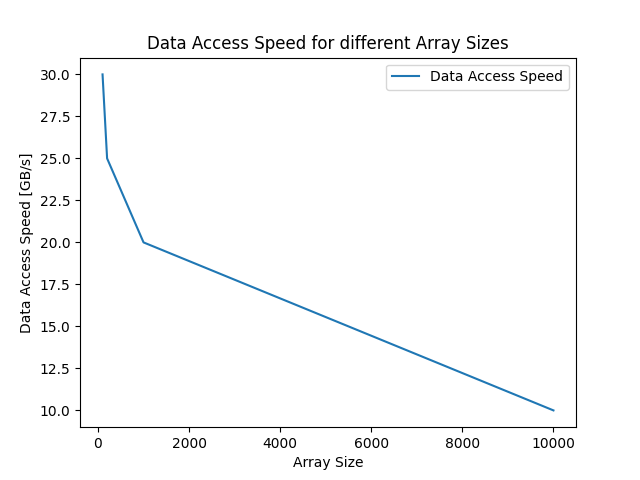
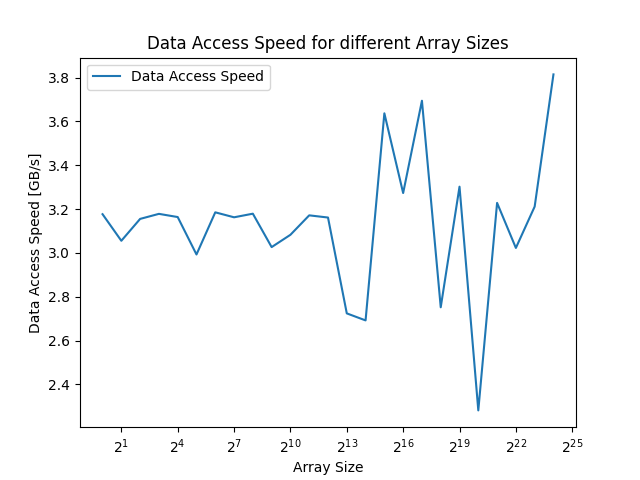
dataAccessSpeed csv

diff --git a/submissions/3_Benchmarking/dataAccessSpeed.cpp b/submissions/3_Benchmarking/dataAccessSpeed.cpp
@@ -1,0 +1,61 @@
+#include <iostream>
+#include <chrono>
+#include <cstdlib>
+#include <fstream>
+#include <algorithm>
+
+double
+testDataAccessSpeed(int i_size)
+{
+    int l_s = i_size;
+    double l_scalar = 2.0;
+
+    double *l_A = new double[l_s];
+    double *l_B = new double[l_s];
+    double *l_C = new double[l_s];
+
+    for (int i = 0; i < l_s; ++i)
+    {
+        l_A[i] = static_cast<double>(std::rand()) / RAND_MAX;
+        l_B[i] = static_cast<double>(std::rand()) / RAND_MAX;
+        l_C[i] = 0.0;
+    }
+
+    int k, i;
+
+    auto l_start_time = std::chrono::high_resolution_clock::now();
+    for (i = 0; i < std::max(l_s, 10000); ++i)
+    {
+        l_C[i % l_s] = l_A[i % l_s] + l_scalar * l_B[i % l_s];
+    }
+
+    auto l_end_time = std::chrono::high_resolution_clock::now();
+    std::chrono::duration<double> l_duration = l_end_time - l_start_time;
+
+    using namespace std::chrono_literals;
+    double l_data_access_speed = 3.0 * std::max(l_s, 10000) * sizeof(double) / (l_duration / 1.0s) / (1024 * 1024 * 1024);
+
+    delete[] l_A;
+    delete[] l_B;
+    delete[] l_C;
+
+    return l_data_access_speed;
+}
+
+int main()
+{
+    int l_size = 1;
+
+    std::ofstream dataCSV;
+    dataCSV.open("memory_bandwidth.csv");
+    dataCSV << "Array Size (bytes), Bandwidth (GB/s)" << std::endl;
+
+    for (int i = 0; i < 25; i++)
+    {
+        dataCSV << l_size << "," << testDataAccessSpeed(l_size) << std::endl;
+        l_size *= 2;
+    }
+    dataCSV.close();
+
+    return 0;
+}

diff --git a/submissions/3_Benchmarking/visualizeTriad.py b/submissions/3_Benchmarking/visualizeTriad.py
@@ -2,24 +2,26 @@ import matplotlib.pyplot as plt
 import matplotlib
 import csv
 import os
-matplotlib.use('agg')
+
+matplotlib.use("agg")
 
 arraySize = []
 dataAccessSpeed = []
 script_dir = os.path.dirname(__file__)
-rel_path = "dataAccessSpeed.csv"
+rel_path = "memory_bandwidth.csv"
 abs_file_path = os.path.join(script_dir, rel_path)
 
-with open(abs_file_path, 'r') as csvfile:
-    plots = csv.reader(csvfile, delimiter=',')
+with open(abs_file_path, "r") as csvfile:
+    plots = csv.reader(csvfile, delimiter=",")
     header = next(plots)
     for row in plots:
         arraySize.append(int(row[0]))
         dataAccessSpeed.append(float(row[1]))
 
-plt.plot(arraySize, dataAccessSpeed, label='Data Access Speed')
-plt.xlabel('Array Size')
-plt.ylabel('Data Access Speed [GB/s]')
-plt.title('Data Access Speed for different Array Sizes')
+plt.plot(arraySize, dataAccessSpeed, label="Data Access Speed")
+plt.xlabel("Array Size")
+plt.xscale("log", base=2)
+plt.ylabel("Data Access Speed [GB/s]")
+plt.title("Data Access Speed for different Array Sizes")
 plt.legend()
-plt.savefig(os.path.join(script_dir, 'dataAccessSpeed.png'))
+plt.savefig(os.path.join(script_dir, "dataAccessSpeed.png"))
